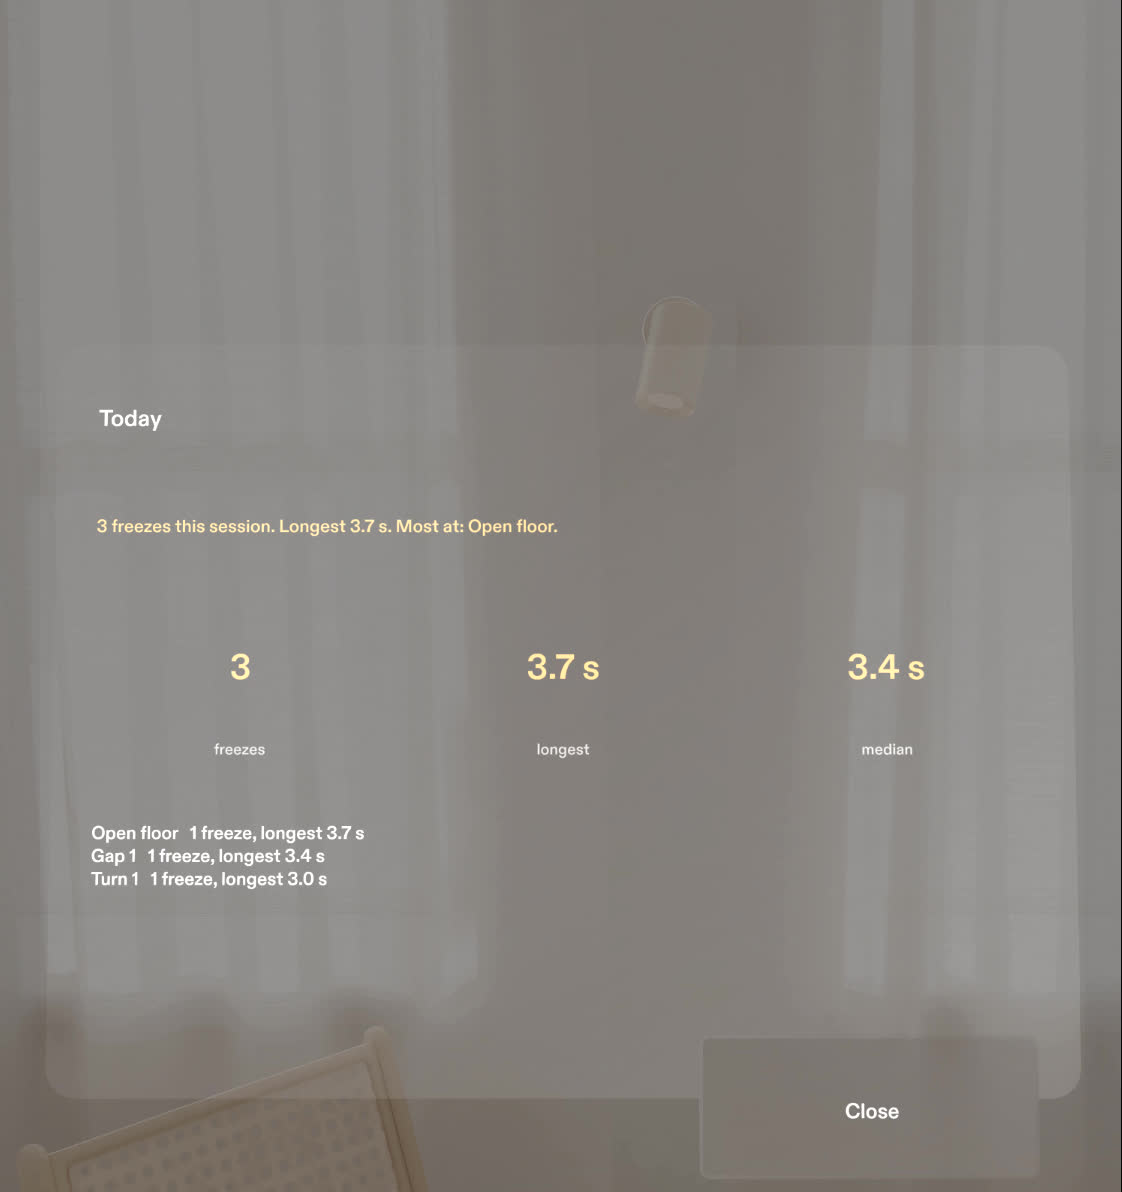
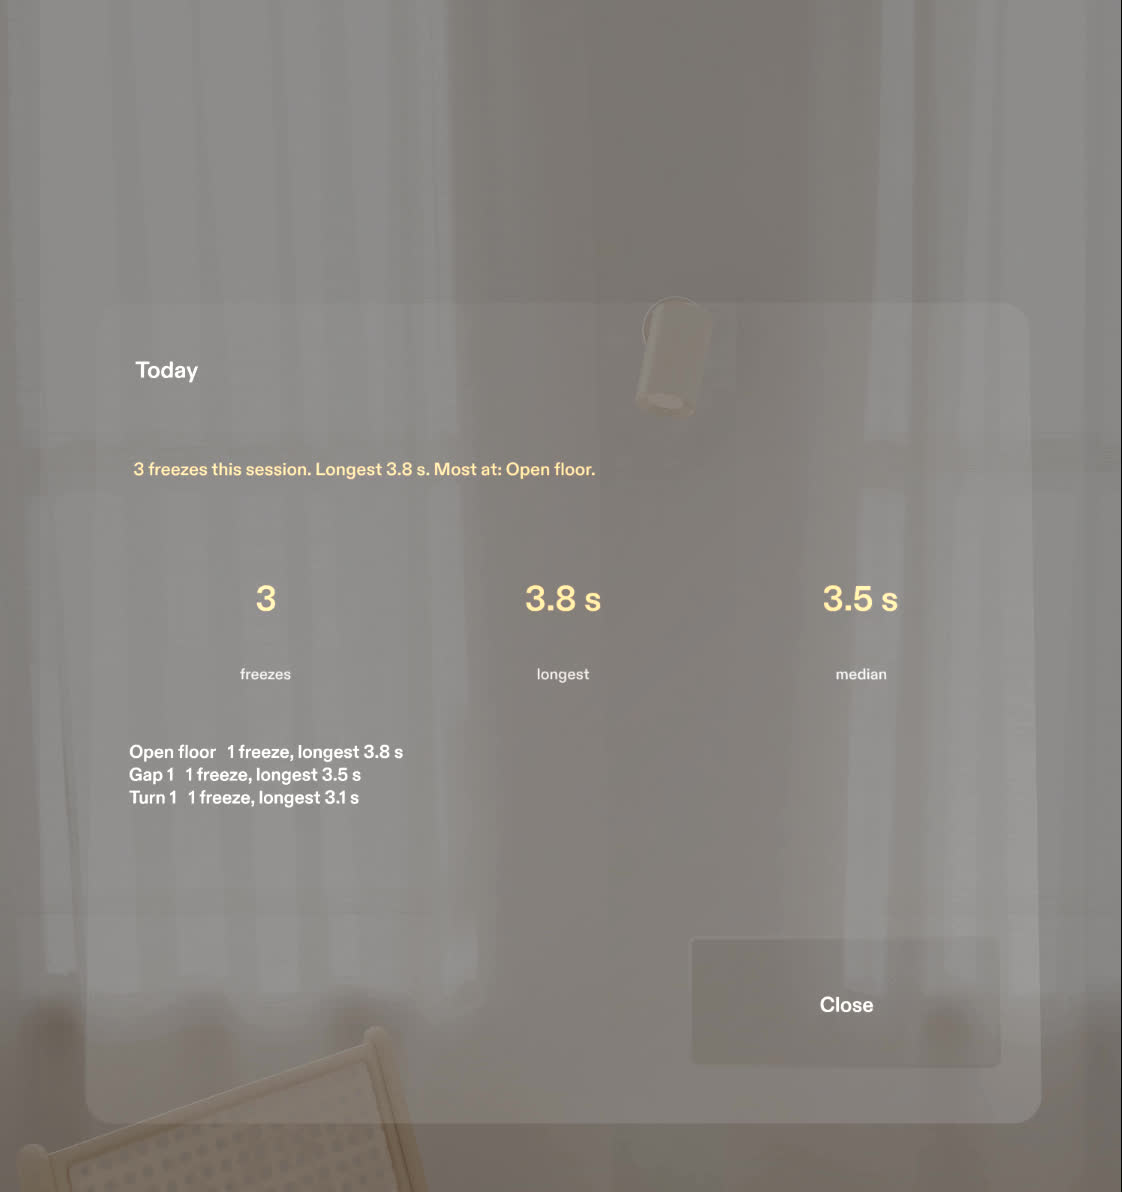
Today card fits its contents

diff --git a/Assets/Scripts/FootlightUI.ts b/Assets/Scripts/FootlightUI.ts
@@ -52,7 +52,7 @@ const CONTROL_Z_LIFT = 0.05
 // Panel distances and sizes from the brief (cm).
 const MAIN_DIST = 60
 const SETUP_DIST = 70
-const TODAY_DIST = 60
+const TODAY_DIST = 65
 // Offsets are in view space. SPECS shows about 32 x 37 degrees, so panels sit near the centre of
 // the gaze, a little low; the setup card sits high so the floor reticle at the centre stays visible.
 const PANEL_DROP = 4
@@ -460,7 +460,7 @@ export class FootlightUI extends BaseScriptComponent {
 
   private buildTodayCard(): SceneObject {
     const W = 34
-    const H = 25
+    const H = 29.5
     const d = TODAY_DIST
     const {root, content} = this.panel("TodayCard", W, H, TODAY_DIST)
     const col = this.flexColumn(content, W, H, {gap: 0.9, padX: 1.6, padY: 1.4})
